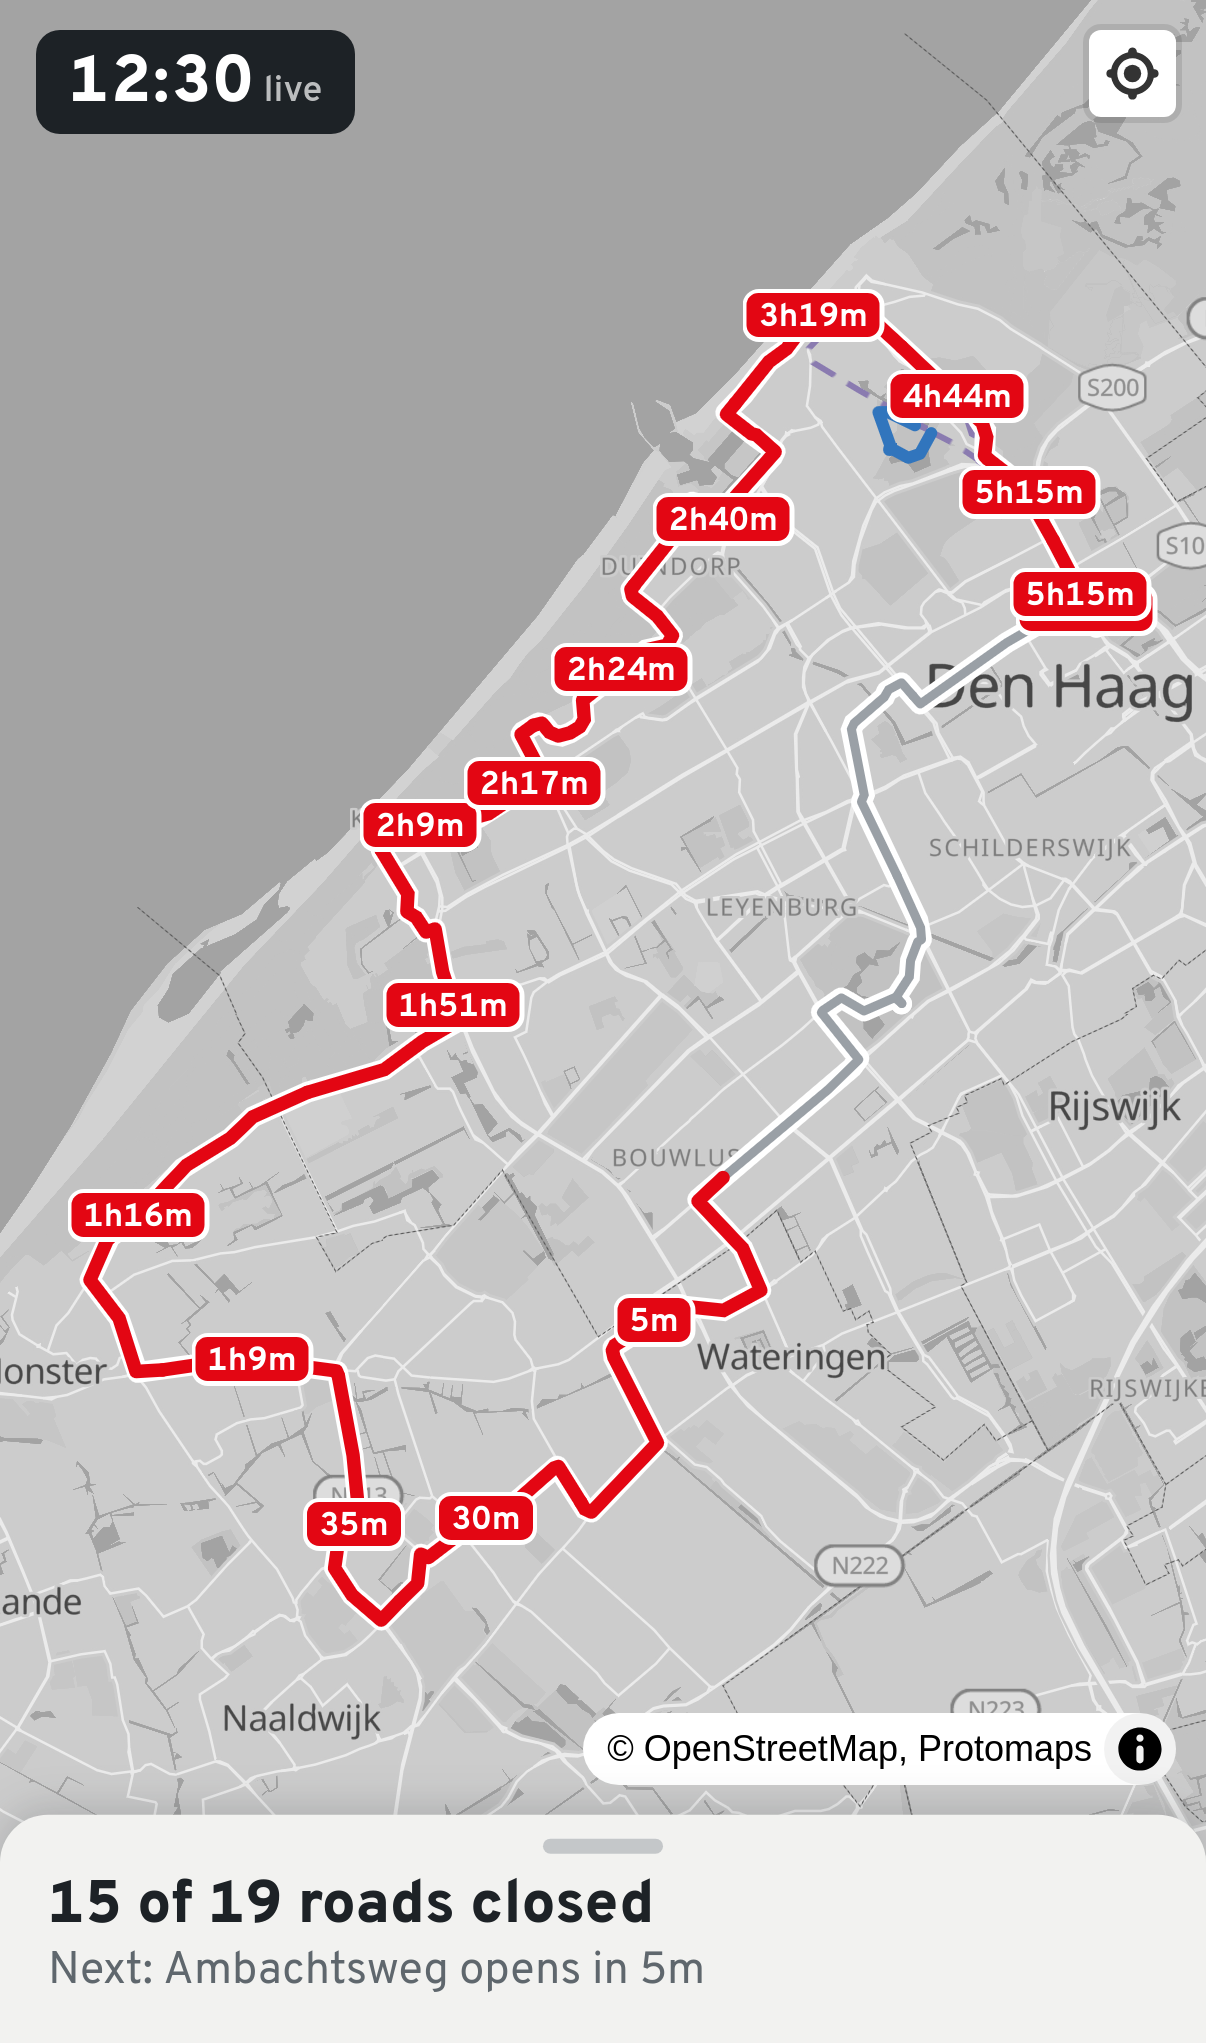
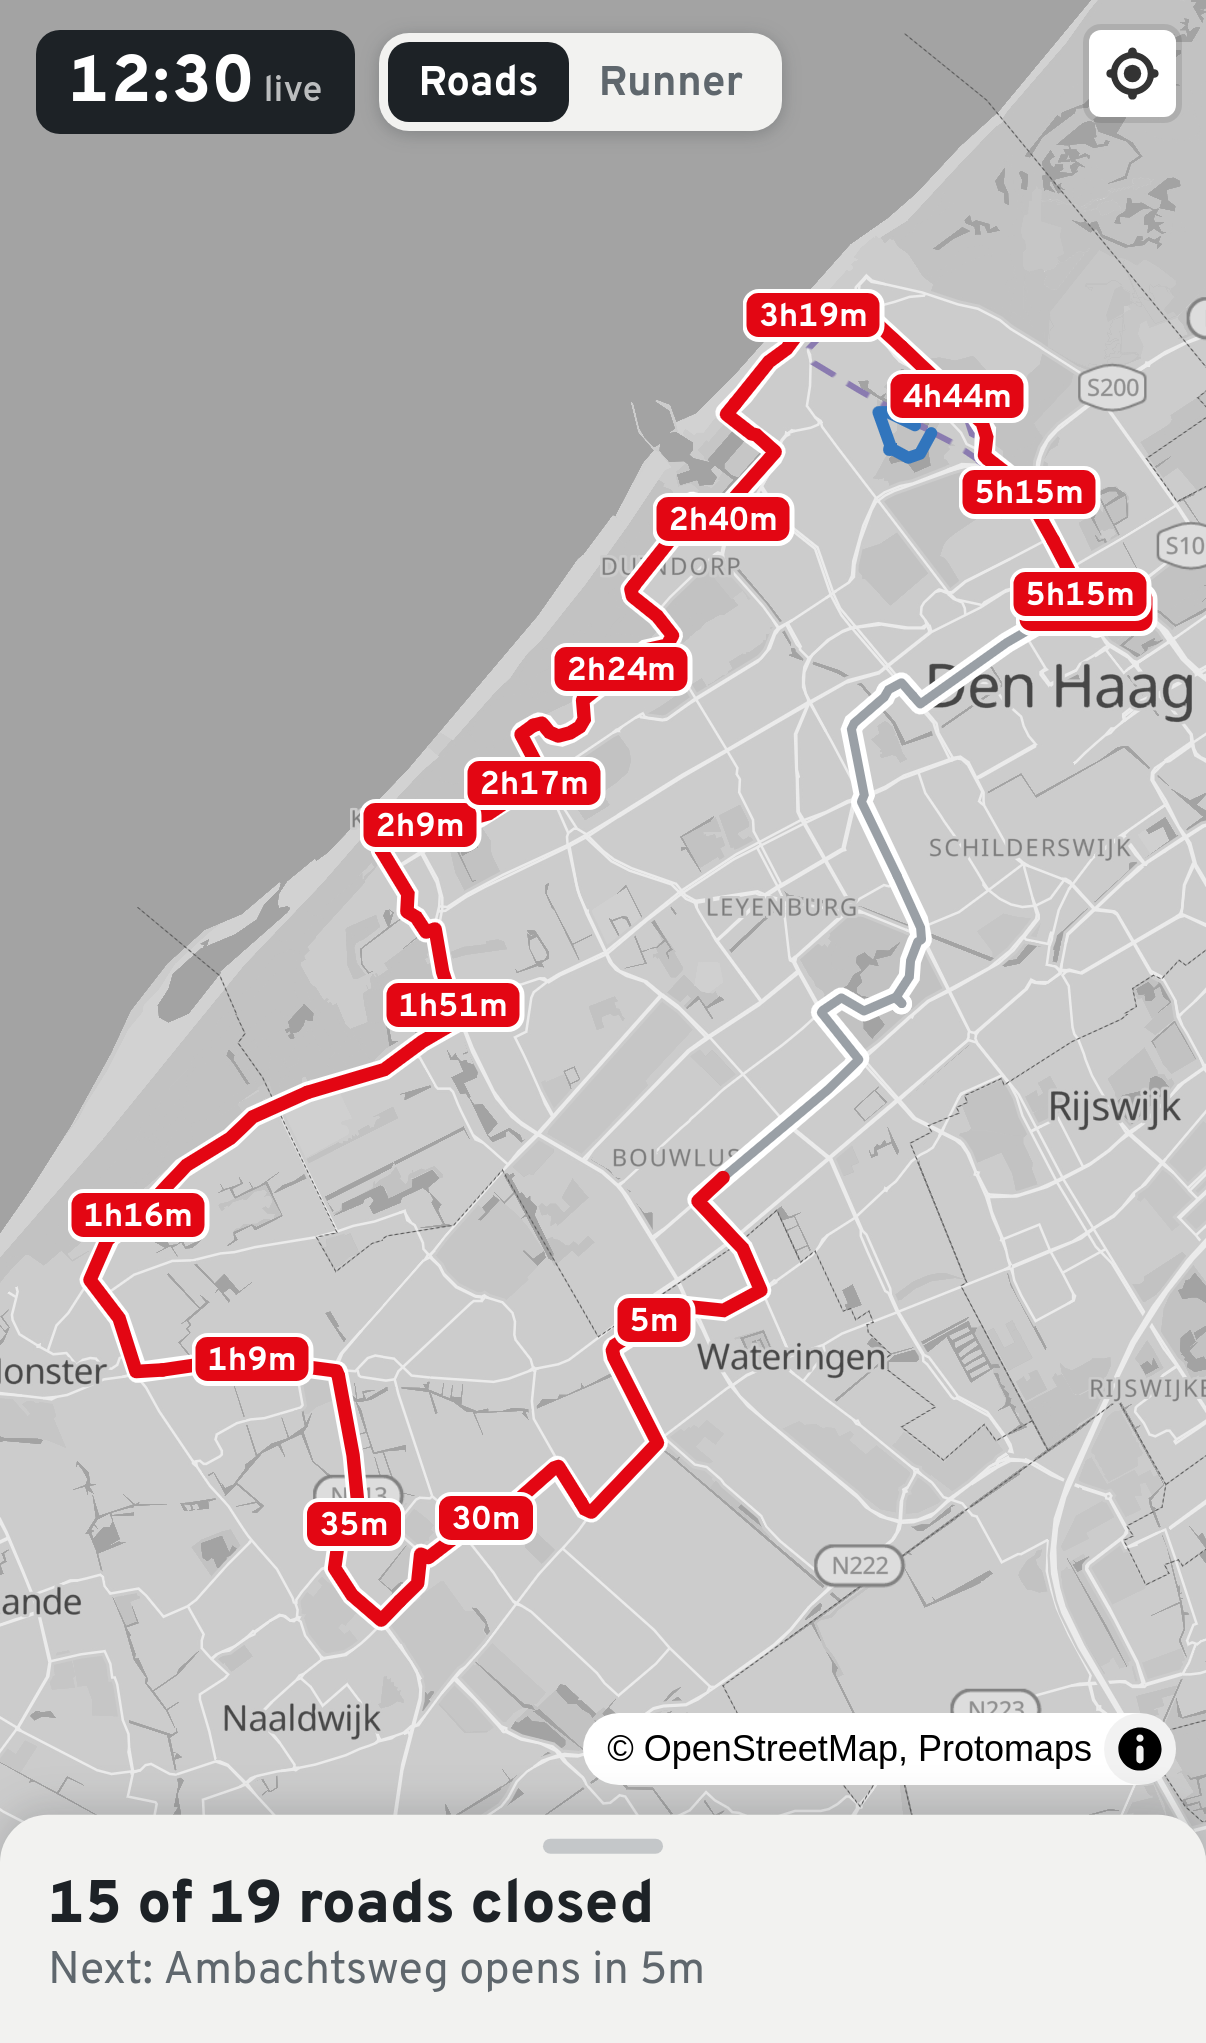
Runner view: where the runner can be, km markers, start and finish settings (#14)

Changed region(s): [[0.3068, 0.0, 0.675, 0.0617]]

diff --git a/app.js b/app.js
@@ -29,6 +29,29 @@ function left(ms) {
 }
 
 const hhmm = (iso) => iso.slice(11, 16);
+const raceDay = (hm) => Date.parse(`2026-11-01T${hm}:00+01:00`);
+const MARATHON = 42.195, RANGE = '#ff5a00';
+
+// The runner settings, saved on the phone. Finish times are kept after the start and in order.
+function loadRunner() {
+  const r = { start: '10:15', from: '14:00', to: '14:30', ...JSON.parse(localStorage.getItem('runner') || '{}') };
+  if (r.from <= r.start) r.from = r.start;
+  if (r.to < r.from) r.to = r.from;
+  return r;
+}
+
+// Where the runner can be at `now`, in km, at an even pace between the fastest and slowest finish.
+function runnerRange(r, now) {
+  const s = raceDay(r.start), f1 = raceDay(r.from), f2 = raceDay(r.to);
+  const km = (f) => Math.min(Math.max((now - s) / Math.max(f - s, 60e3), 0), 1) * MARATHON;
+  return { s, f1, f2, back: km(f2), front: km(f1) };
+}
+
+const pace = (ms) => {
+  const sec = Math.round(ms / 1e3 / MARATHON);
+  return `${Math.floor(sec / 60)}:${String(sec % 60).padStart(2, '0')}`;
+};
+const kmText = (k) => k.toFixed(1);
 const clockFmt = new Intl.DateTimeFormat('nl-NL', { timeZone: 'Europe/Amsterdam', hour: '2-digit', minute: '2-digit' });
 
 // Waits until the service worker controls the page, so the big map file is downloaded only once.
@@ -93,6 +116,31 @@ async function start() {
     };
   };
   const round = { 'line-join': 'round', 'line-cap': 'round' };
+
+  // The runner range is a gradient along the course, so moving it is a paint change only.
+  let mode = localStorage.getItem('mode') === 'runner' ? 'runner' : 'roads';
+  let runner = loadRunner();
+  const seen = (m) => ({ visibility: m === mode ? 'visible' : 'none' });
+  const gradient = (color, now) => {
+    const { back, front } = runnerRange(runner, now);
+    const clear = 'rgba(0,0,0,0)';
+    if (front - back < 0.01) return ['step', ['line-progress'], clear, 0.5, clear];
+    return ['step', ['line-progress'], clear, back / MARATHON, color, front / MARATHON, clear];
+  };
+
+  // Km markers along the course, scaled so the GPX length matches the official distance.
+  const pts = data.routes.marathon;
+  const cum = [0];
+  for (let i = 1; i < pts.length; i++) {
+    const [a, b] = [pts[i - 1], pts[i]];
+    cum.push(cum[i - 1] + Math.hypot((b[1] - a[1]) * 111.2, (b[0] - a[0]) * 111.2 * Math.cos(52.05 * Math.PI / 180)));
+  }
+  const at = (k) => {
+    const d = (k * cum.at(-1)) / MARATHON;
+    const i = cum.findIndex((c) => c >= d);
+    const t = (d - cum[i - 1]) / (cum[i] - cum[i - 1]);
+    return [0, 1].map((j) => pts[i - 1][j] + (pts[i][j] - pts[i - 1][j]) * t);
+  };
   const other = { 'line-color': '#8a7bb0', 'line-width': 2, 'line-dasharray': [2.5, 1.5] };
 
   // The course layers are part of the initial style, so they draw with the first frame.
@@ -107,17 +155,23 @@ async function start() {
         protomaps: { type: 'vector', url: 'pmtiles://hague', attribution: '© OpenStreetMap, Protomaps' },
         '10k': { type: 'geojson', data: line(data.routes['10k']) },
         '5k': { type: 'geojson', data: line(data.routes['5k']) },
-        marathon: { type: 'geojson', data: line(data.routes.marathon) },
+        marathon: { type: 'geojson', data: line(data.routes.marathon), lineMetrics: true },
         chunks: { type: 'geojson', data: chunks },
       },
       layers: [
         ...layers,
-        { id: '10k', type: 'line', source: '10k', paint: other },
-        { id: '5k', type: 'line', source: '5k', paint: other },
+        { id: '10k', type: 'line', source: '10k', layout: seen('roads'), paint: other },
+        { id: '5k', type: 'line', source: '5k', layout: seen('roads'), paint: other },
         { id: 'casing', type: 'line', source: 'marathon', layout: round, paint: { 'line-color': '#fff', 'line-width': 7 } },
         ...data.closures.map((c, i) => ({
-          id: chunkIds[i], type: 'line', source: 'chunks', filter: ['==', ['get', 'i'], i], layout: round, paint: paint(c, Date.now()),
+          id: chunkIds[i], type: 'line', source: 'chunks', filter: ['==', ['get', 'i'], i],
+          layout: { ...round, ...seen('roads') }, paint: paint(c, Date.now()),
         })),
+        { id: 'course', type: 'line', source: 'marathon', layout: { ...round, ...seen('runner') }, paint: { 'line-color': '#1d2226', 'line-width': 2.5 } },
+        { id: 'range-casing', type: 'line', source: 'marathon', layout: { ...round, ...seen('runner') },
+          paint: { 'line-width': 12, 'line-gradient': gradient('#fff', Date.now()) } },
+        { id: 'range', type: 'line', source: 'marathon', layout: { ...round, ...seen('runner') },
+          paint: { 'line-width': 7, 'line-gradient': gradient(RANGE, Date.now()) } },
       ],
     },
     bounds,
@@ -128,7 +182,7 @@ async function start() {
   document.getElementById('loading').remove();
   map.addControl(new maplibregl.GeolocateControl({ positionOptions: { enableHighAccuracy: true }, trackUserLocation: true }));
   let loaded = false;
-  map.on('load', () => { loaded = true; update(); });
+  map.on('load', () => { loaded = true; setMode(mode); });
 
   const sheet = document.getElementById('sheet');
   const handle = document.getElementById('handle');
@@ -153,6 +207,41 @@ async function start() {
     };
     return { c, badge, li };
   });
+
+  for (let k = 2.5; k < MARATHON; k += 2.5) {
+    const el = document.createElement('div');
+    el.className = k % 10 ? 'km' : 'km major';
+    el.textContent = k;
+    new maplibregl.Marker({ element: el }).setLngLat(at(k)).addTo(map);
+  }
+  const near = () => document.body.classList.toggle('near', map.getZoom() >= 12.5);
+  map.on('zoom', near);
+  near();
+
+  // Roads or runner view. Both use the same clock and time travel.
+  const modeButtons = document.querySelectorAll('#mode button');
+  const setMode = (m) => {
+    mode = m;
+    localStorage.setItem('mode', m);
+    document.body.classList.toggle('runner', m === 'runner');
+    for (const b of modeButtons) b.setAttribute('aria-pressed', b.dataset.mode === m);
+    if (loaded) {
+      for (const id of ['10k', '5k', ...chunkIds]) map.setLayoutProperty(id, 'visibility', seen('roads').visibility);
+      for (const id of ['course', 'range-casing', 'range']) map.setLayoutProperty(id, 'visibility', seen('runner').visibility);
+    }
+    update();
+  };
+  for (const b of modeButtons) b.onclick = () => setMode(b.dataset.mode);
+
+  const form = document.getElementById('settings');
+  for (const k of ['start', 'from', 'to']) form.elements[k].value = runner[k];
+  form.oninput = () => {
+    if ([...form.elements].some((el) => el.name && !el.value)) return;
+    localStorage.setItem('runner', JSON.stringify({ start: form.elements.start.value, from: form.elements.from.value, to: form.elements.to.value }));
+    runner = loadRunner();
+    update();
+  };
+  form.onsubmit = (e) => e.preventDefault();
 
   map.on('click', chunkIds, (e) => {
     const { li } = items[e.features[0].properties.i];
@@ -187,7 +276,10 @@ async function start() {
       data.closures.forEach((c, i) => {
         for (const [k, v] of Object.entries(paint(c, now))) map.setPaintProperty(chunkIds[i], k, v);
       });
+      map.setPaintProperty('range-casing', 'line-gradient', gradient('#fff', now));
+      map.setPaintProperty('range', 'line-gradient', gradient(RANGE, now));
     }
+    if (mode === 'runner') return updateRunner(now);
     const sorted = items.map((it) => ({ ...it, st: status(it.c, now) })).sort((a, b) => a.st.next - b.st.next || a.c.n - b.c.n);
     for (const { c, badge, li, st } of sorted) {
       const t = left(st.next - now);
@@ -207,7 +299,23 @@ async function start() {
       ? `Next: ${upcoming.c.streets.split(' / ')[0]} ${upcoming.st.text} ${left(upcoming.st.next - now)}`
       : 'The marathon is over. Drive safe.';
   }
-  update();
+  function updateRunner(now) {
+    const { s, f1, f2, back, front } = runnerRange(runner, now);
+    const summary = document.getElementById('summary'), next = document.getElementById('next');
+    const finish = `finish ${runner.from} to ${runner.to}`;
+    if (now < s) {
+      summary.textContent = `Starts in ${left(s - now)}`;
+      next.textContent = `Start ${runner.start}, ${finish}`;
+    } else if (now < f2) {
+      summary.textContent = now < f1 ? `Between km ${kmText(back)} and ${kmText(front)}` : `Between km ${kmText(back)} and the finish`;
+      next.textContent = `Pace ${pace(f1 - s)} to ${pace(f2 - s)} per km, ${finish}`;
+    } else {
+      summary.textContent = 'Finished';
+      next.textContent = `Started ${runner.start}, ${finish}`;
+    }
+  }
+
+  setMode(mode);
   setInterval(update, 30e3);
   document.addEventListener('visibilitychange', () => document.visibilityState === 'visible' && update());
 }

diff --git a/style.css b/style.css
@@ -23,8 +23,11 @@ body {
 #map { position: fixed; inset: 0; }
 #loading { position: absolute; inset: 0; display: grid; place-items: center; margin: 0; color: var(--muted); }
 
-#clock {
+#bar {
   position: fixed; z-index: 2; left: 12px; top: calc(env(safe-area-inset-top) + 10px);
+  display: flex; gap: 8px; align-items: center;
+}
+#clock {
   padding: 4px 11px 2px; border: 0; border-radius: 8px; background: var(--ink); color: #fff;
   font: 800 22px/1.3 Overpass, system-ui, sans-serif; font-variant-numeric: tabular-nums; letter-spacing: 0.02em;
   cursor: pointer;
@@ -32,6 +35,15 @@ body {
 #clock::after { content: ' live'; font-size: 12px; font-weight: 600; opacity: 0.7; letter-spacing: 0; }
 .travelling #clock { background: var(--sign); }
 .travelling #clock::after { content: ' preview'; }
+#mode {
+  display: flex; padding: 3px; border-radius: 10px; background: var(--paper); box-shadow: 0 1px 6px rgb(29 34 38 / 0.25);
+}
+#mode button {
+  padding: 6px 10px 4px; border: 0; border-radius: 7px; background: none; color: var(--muted);
+  font: 700 14px/1.2 Overpass, system-ui, sans-serif; cursor: pointer;
+}
+#mode button[aria-pressed="true"] { background: var(--ink); color: #fff; }
+#mode button:focus-visible { outline: 3px solid var(--sign); outline-offset: 1px; }
 #clock:focus-visible, #live:focus-visible { outline: 3px solid var(--closed); outline-offset: 2px; }
 
 #travel {
@@ -52,6 +64,17 @@ body {
   box-shadow: 0 0 0 1.5px #fff; pointer-events: none;
 }
 
+/* Course km markers: only in the runner view, every 10 km, every 2.5 km when zoomed in. */
+.km {
+  display: none; padding: 1px 3px 0; border-radius: 3px; background: var(--ink); color: #fff;
+  font: 700 10px/1.25 Overpass, system-ui, sans-serif; font-variant-numeric: tabular-nums;
+  box-shadow: 0 0 0 1.5px #fff; pointer-events: none;
+}
+.km.major { font-size: 12px; padding: 1px 4px 0; }
+.runner .badge { display: none; }
+.runner .km.major, .runner.near .km { display: block; }
+.runner .roads-only, body:not(.runner) .runner-only { display: none; }
+
 #sheet {
   position: fixed; z-index: 3; left: 0; right: 0; bottom: 0; height: 62dvh;
   display: flex; flex-direction: column;
@@ -59,7 +82,18 @@ body {
   transform: translateY(0); transition: transform 0.28s cubic-bezier(0.2, 0.8, 0.2, 1);
 }
 #sheet.collapsed { transform: translateY(calc(62dvh - var(--sheet-peek))); }
-@media (prefers-reduced-motion: reduce) { #sheet { transition: none; } }
+@media (prefers-reduced-motion: reduce) { /* Course km markers: only in the runner view, every 10 km, every 2.5 km when zoomed in. */
+.km {
+  display: none; padding: 1px 3px 0; border-radius: 3px; background: var(--ink); color: #fff;
+  font: 700 10px/1.25 Overpass, system-ui, sans-serif; font-variant-numeric: tabular-nums;
+  box-shadow: 0 0 0 1.5px #fff; pointer-events: none;
+}
+.km.major { font-size: 12px; padding: 1px 4px 0; }
+.runner .badge { display: none; }
+.runner .km.major, .runner.near .km { display: block; }
+.runner .roads-only, body:not(.runner) .runner-only { display: none; }
+
+#sheet { transition: none; } }
 
 #handle {
   display: grid; gap: 0 12px; grid-template-columns: 1fr; padding: 8px 16px 10px; border: 0;
@@ -79,6 +113,8 @@ body {
 .ramp { background: linear-gradient(90deg, #ff5a00, #ffb000, #3d8bd9, var(--sign)); }
 .gone { background: var(--gone); }
 .legend .closed { background: var(--closed); }
+.range { background: #ff5a00; }
+.legend .course { background: var(--ink); height: 3px !important; }
 .other { background: repeating-linear-gradient(90deg, #8a7bb0 0 5px, transparent 5px 8px); }
 
 ol { list-style: none; margin: 0; padding: 0; }
@@ -93,6 +129,15 @@ li .when { color: var(--muted); font-size: 13px; }
 li .left { grid-row: span 2; font-size: 19px; font-weight: 800; text-align: right; }
 li .left small { display: block; color: var(--muted); font-size: 11px; font-weight: 600; }
 li.done .streets, li.done .left { color: var(--muted); font-weight: 600; }
+#settings .legend { grid-template-columns: 26px 1fr; }
+.fields { display: grid; grid-template-columns: repeat(3, 1fr); gap: 10px; padding: 14px 0 4px; }
+.fields label { display: grid; gap: 4px; color: var(--muted); font-size: 13px; font-weight: 600; }
+.fields input {
+  width: 100%; min-width: 0; padding: 8px 6px 6px; border: 1px solid #c4c7c9; border-radius: 8px;
+  background: #fff; color: var(--ink); font: 800 19px/1.2 Overpass, system-ui, sans-serif; font-variant-numeric: tabular-nums;
+  -webkit-appearance: none; appearance: none; text-align: center;
+}
+.fields input:focus-visible { outline: 3px solid var(--sign); outline-offset: 1px; }
 .note { color: var(--muted); font-size: 12px; max-width: 60ch; }
 
 #update {

diff --git a/index.html b/index.html
@@ -19,18 +19,25 @@
 </head>
 <body>
 <div id="map"><p id="loading">Loading the offline map</p></div>
-<button id="clock" aria-expanded="false" aria-controls="travel" aria-label="Clock. Tap to look at another time"></button>
+<div id="bar">
+  <button id="clock" aria-expanded="false" aria-controls="travel" aria-label="Clock. Tap to look at another time"></button>
+  <div id="mode" role="group" aria-label="View">
+    <button data-mode="roads" aria-pressed="true">Roads</button>
+    <button data-mode="runner" aria-pressed="false">Runner</button>
+  </div>
+</div>
 <div id="travel" hidden>
   <input id="slider" type="range" aria-label="Time on race day">
   <button id="live">Back to live</button>
 </div>
-<section id="sheet" class="collapsed" aria-label="Road closures">
+<section id="sheet" class="collapsed" aria-label="Details">
   <button id="handle" aria-expanded="false" aria-controls="details">
     <span class="grip"></span>
     <strong id="summary"></strong>
     <span id="next"></span>
   </button>
   <div id="details">
+    <div class="roads-only">
     <div class="legend">
       <span class="closed"></span><span>closed</span>
       <span class="ramp"></span><span>open, closes in 0m to 4h</span>
@@ -39,6 +46,19 @@
     </div>
     <ol id="rows"></ol>
     <p class="note">Sunday 1 November 2026. Times from the official closure map are indicative: a road can close earlier or reopen later.</p>
+    </div>
+    <form id="settings" class="runner-only">
+      <div class="legend">
+        <span class="range"></span><span>where the runner can be</span>
+        <span class="course"></span><span>marathon course</span>
+      </div>
+      <div class="fields">
+        <label>Start<input type="time" name="start" required></label>
+        <label>Finish from<input type="time" name="from" required></label>
+        <label>Finish until<input type="time" name="to" required></label>
+      </div>
+      <p class="note">The range assumes an even pace. Its front is the fastest finish, its back the slowest. Times are on Sunday 1 November and are saved on this phone.</p>
+    </form>
   </div>
 </section>
 <button id="update" hidden>New version ready. Tap to update.</button>

diff --git a/sw.js b/sw.js
@@ -1,5 +1,5 @@
 // Bump VERSION to ship an update. Every file is cached at install and served from the cache only.
-const VERSION = 'v3';
+const VERSION = 'v4';
 const FONTS = ['Noto Sans Regular', 'Noto Sans Medium', 'Noto Sans Italic'].flatMap((f) =>
   ['0-255', '256-511', '8192-8447'].map((r) => `map/fonts/${f}/${r}.pbf`));
 const FILES = [

diff --git a/README.md b/README.md
@@ -8,6 +8,7 @@ Live: https://djosh34.github.io/marathon_den_haag_tracker_2026/
 - `tools/build_data.py` builds `data.js` from the GPX files and the closure list.
 - Map tiles: a Protomaps extract (`map/hague.pmtiles`, zoom 0–14).
 - Tap the clock to look at another time of race day with a slider. "Back to live" returns to now.
+- The Roads | Runner switch next to the clock changes the view. Runner hides the closures and shows, in orange, where a runner can be at the shown time, with km markers (every 10, every 2.5 when zoomed in). The start time and finish window are set in the sheet (default 10:15, finishing 14:00 to 14:30) and saved on the phone.
 - To ship a change, bump `VERSION` in `sw.js`. Open phones get a "tap to update" banner.
 
 ## Test
@@ -18,4 +19,4 @@ podman run --rm --network host --ipc host -v "$PWD":/work:Z -w /work \
   mcr.microsoft.com/playwright:v1.64.1-noble node tools/test.mjs
 ```
 
-The test runs Playwright WebKit with the `iPhone 17 Pro` profile. It writes screenshots at race-day times to `screenshots/`, checks the time-travel slider, checks that a closure changes live, and reloads offline expecting zero network requests.
+The test runs Playwright WebKit with the `iPhone 17 Pro` profile. It writes screenshots at race-day times to `screenshots/`, checks the time-travel slider and the runner view (range, km markers, settings), checks that a closure changes live, and reloads offline expecting zero network requests.
